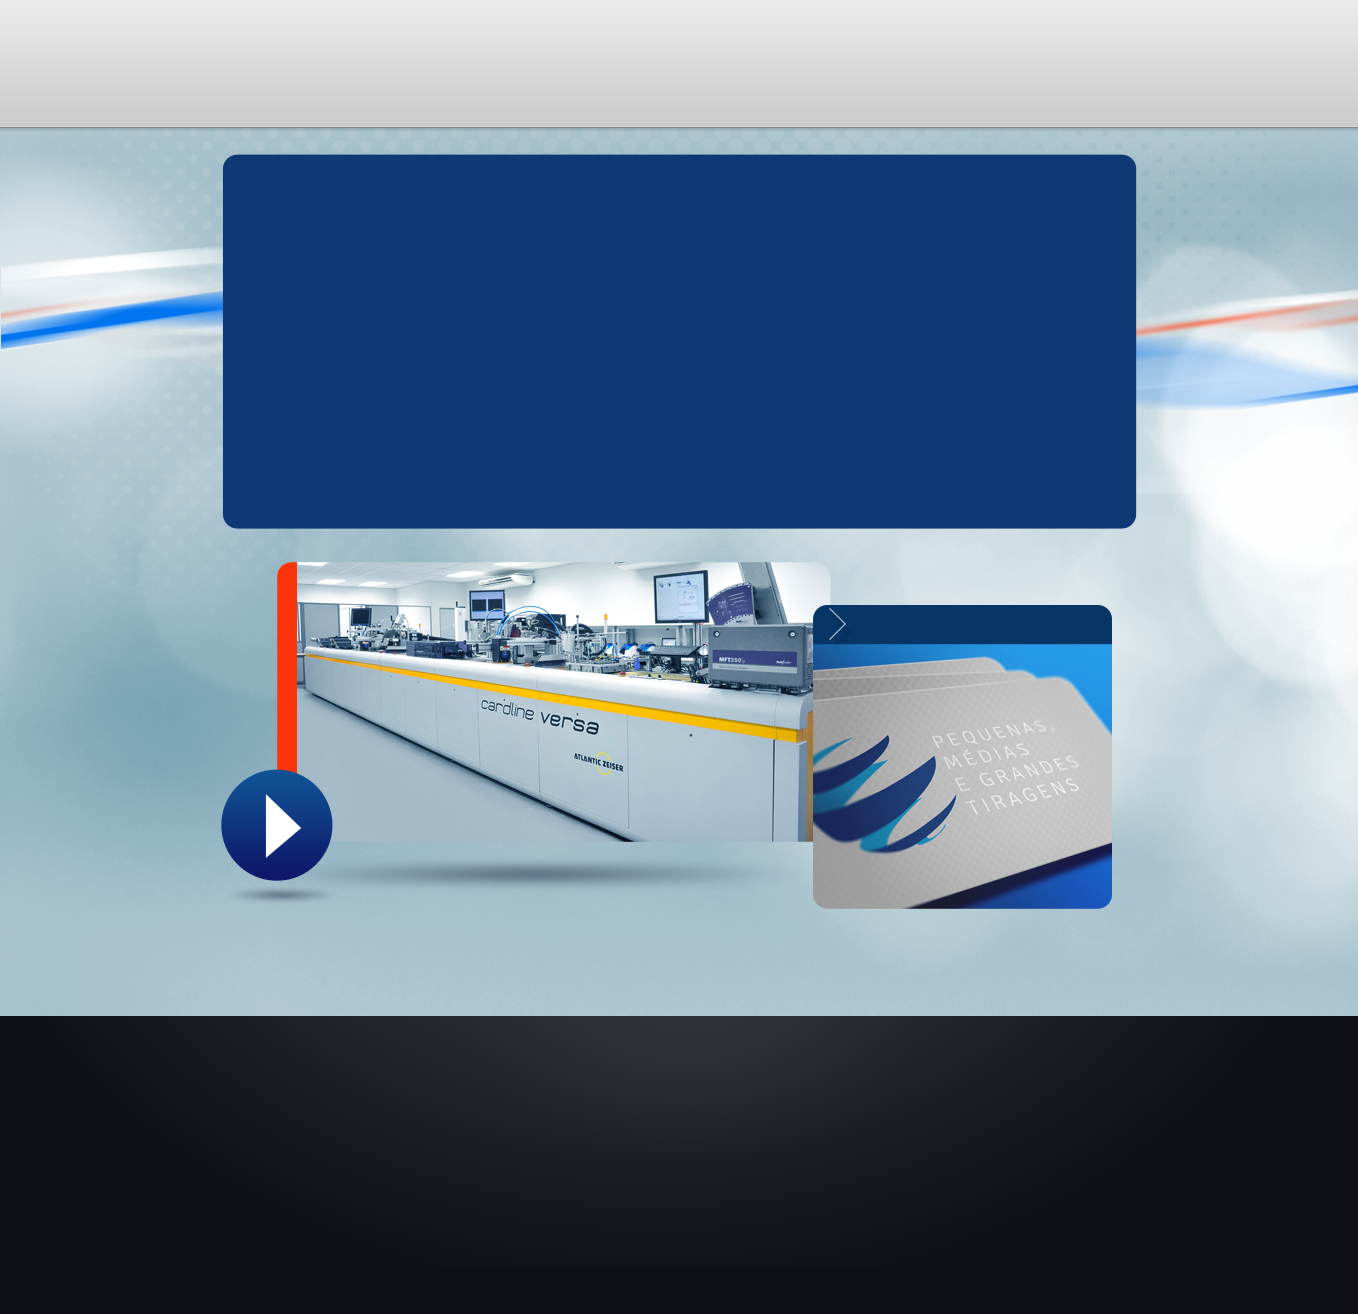
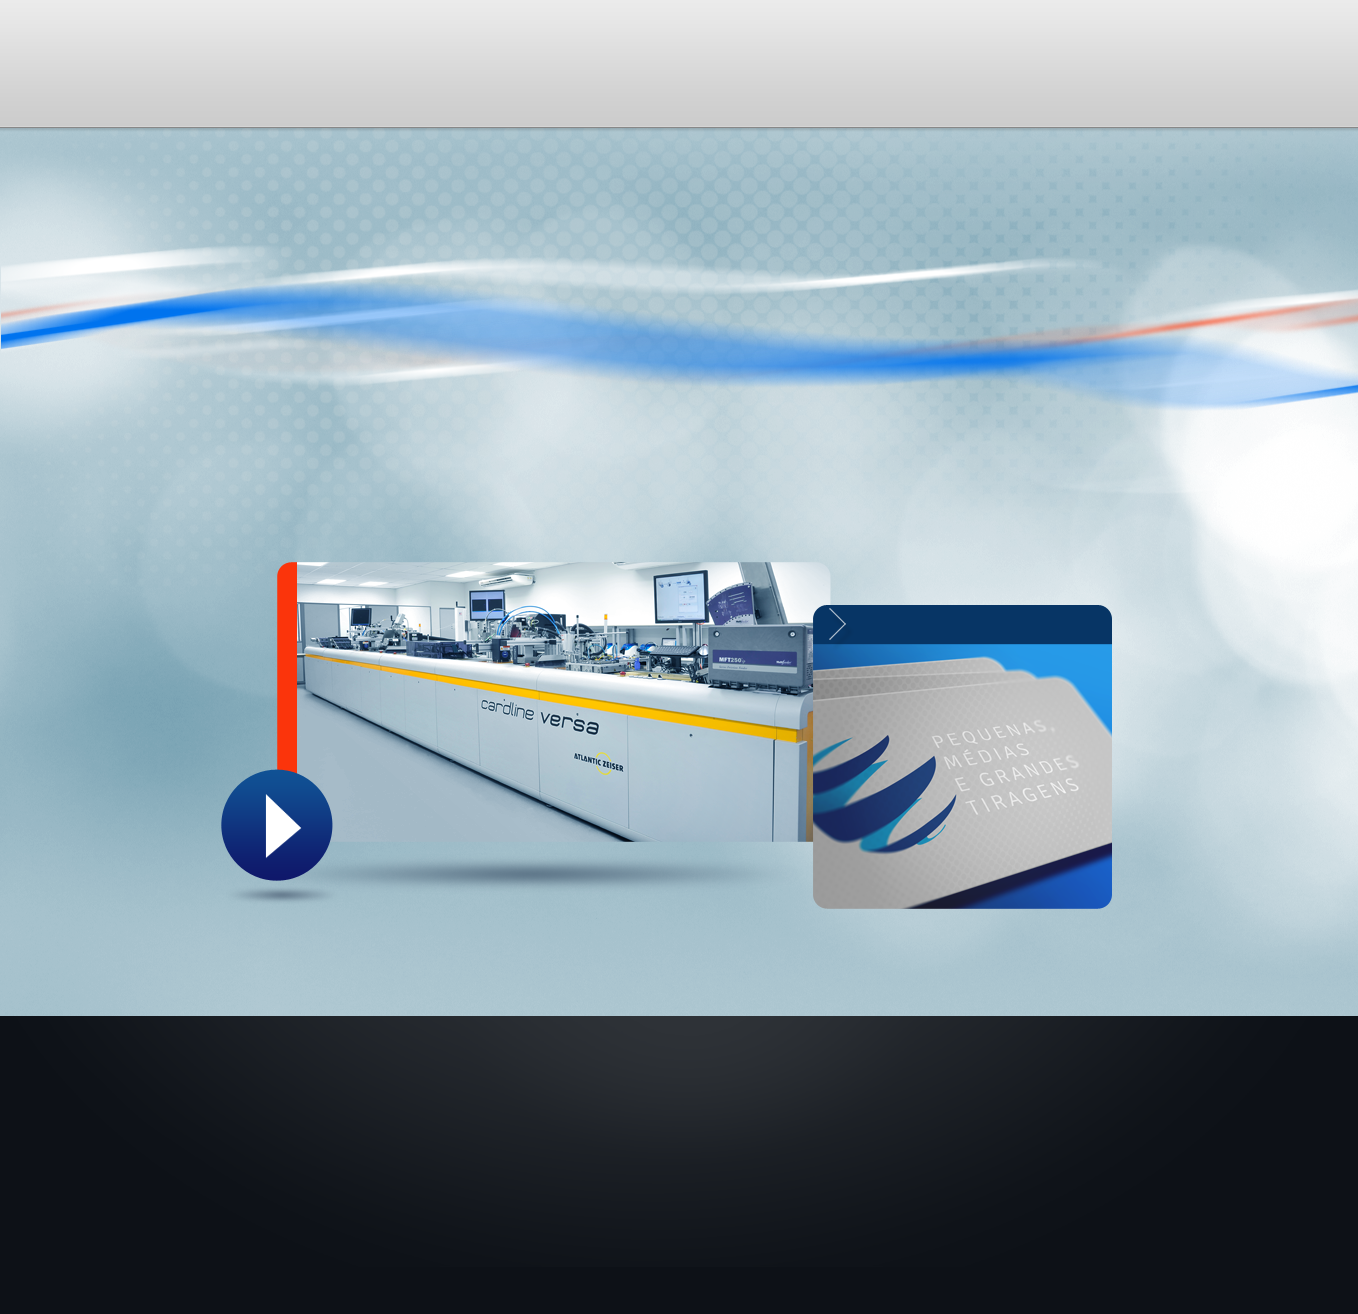
Alterações centralização do background

Changed region(s): [[0.1546, 0.0936, 0.8351, 0.4056]]

diff --git a/css/index.css b/css/index.css
@@ -2,7 +2,7 @@
 
 #indexContent { background: url(../img/indexBackground.png ) no-repeat 0 0 }
 
-#middle { width: 1166px; height: 864px; margin-left: 191px; position: relative }
+#middle { width: 1166px; height: 864px; margin-left: 221px; position: relative }
 	
 	#middle #randomImage { width: 914px; height: 350px; margin-top: 22px; overflow: hidden; margin-left: 1px }
 	#middle #arrows { width: 915px; height: 50px; position: absolute; top: 167px; z-index:999 }
